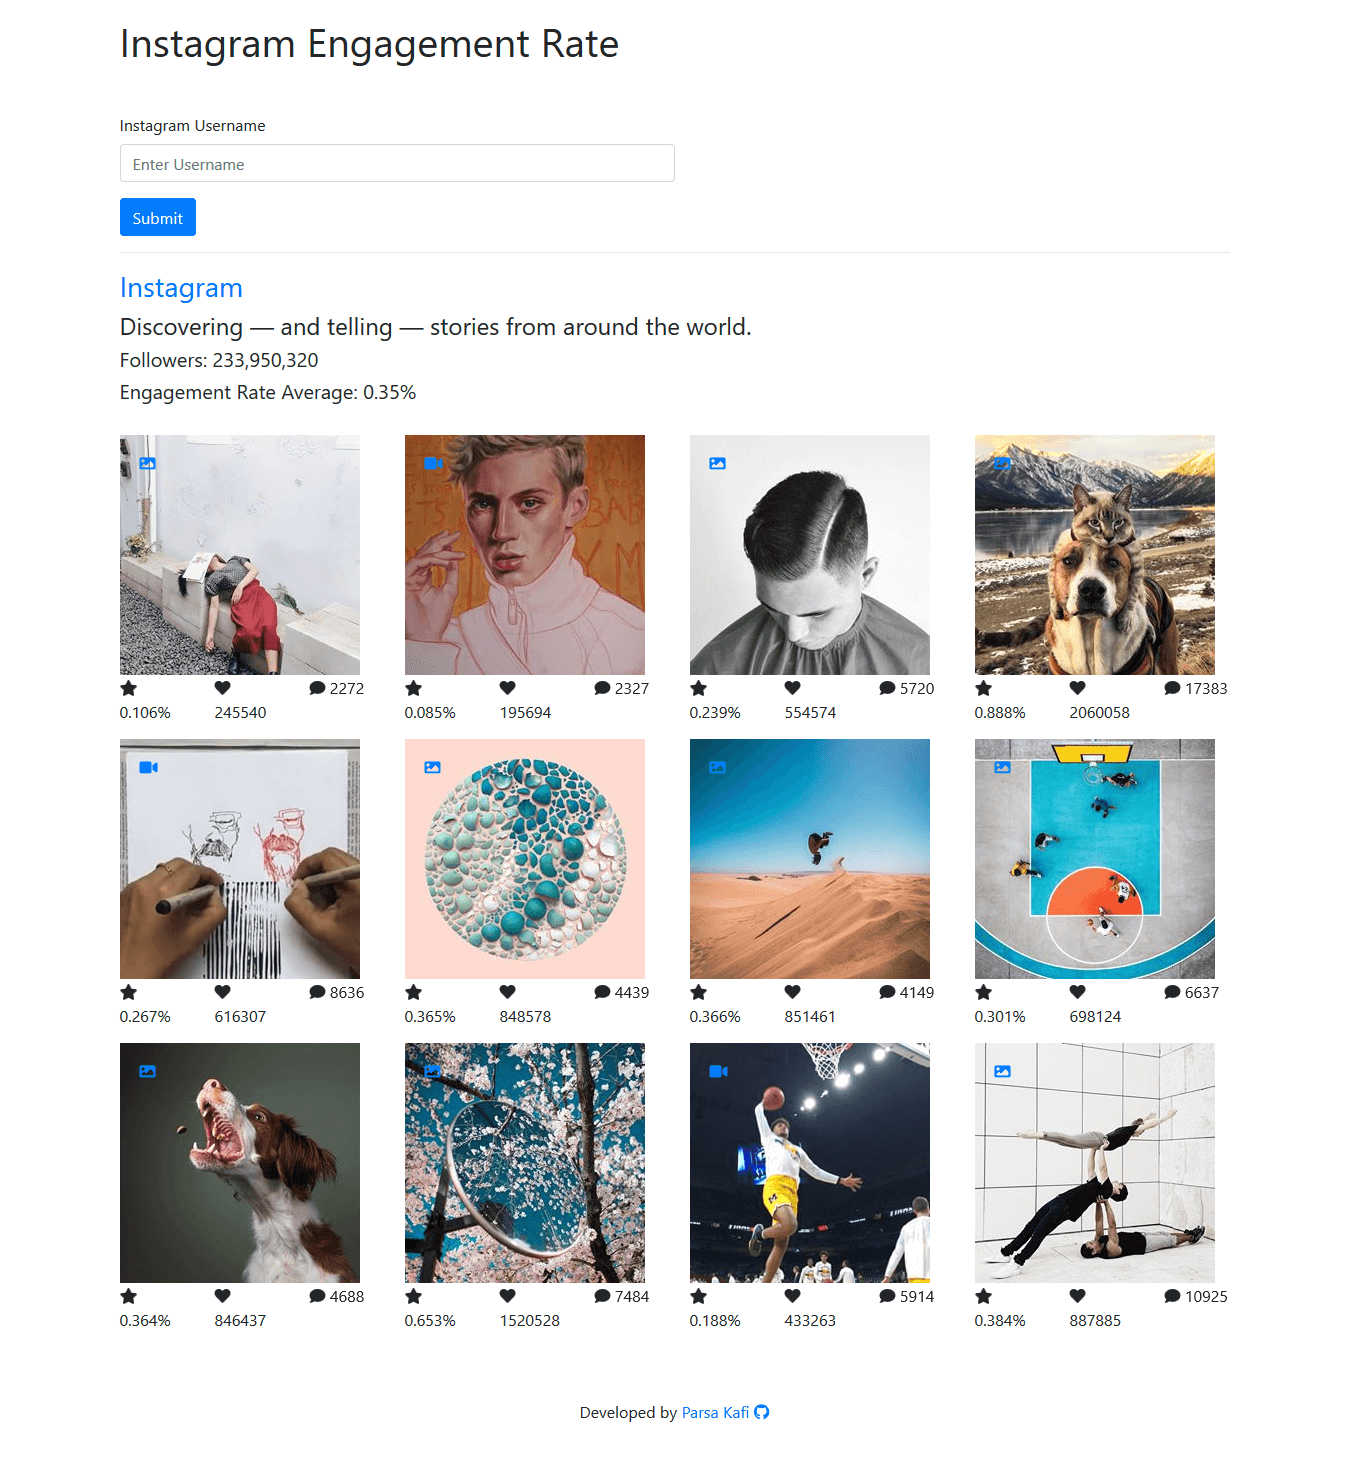
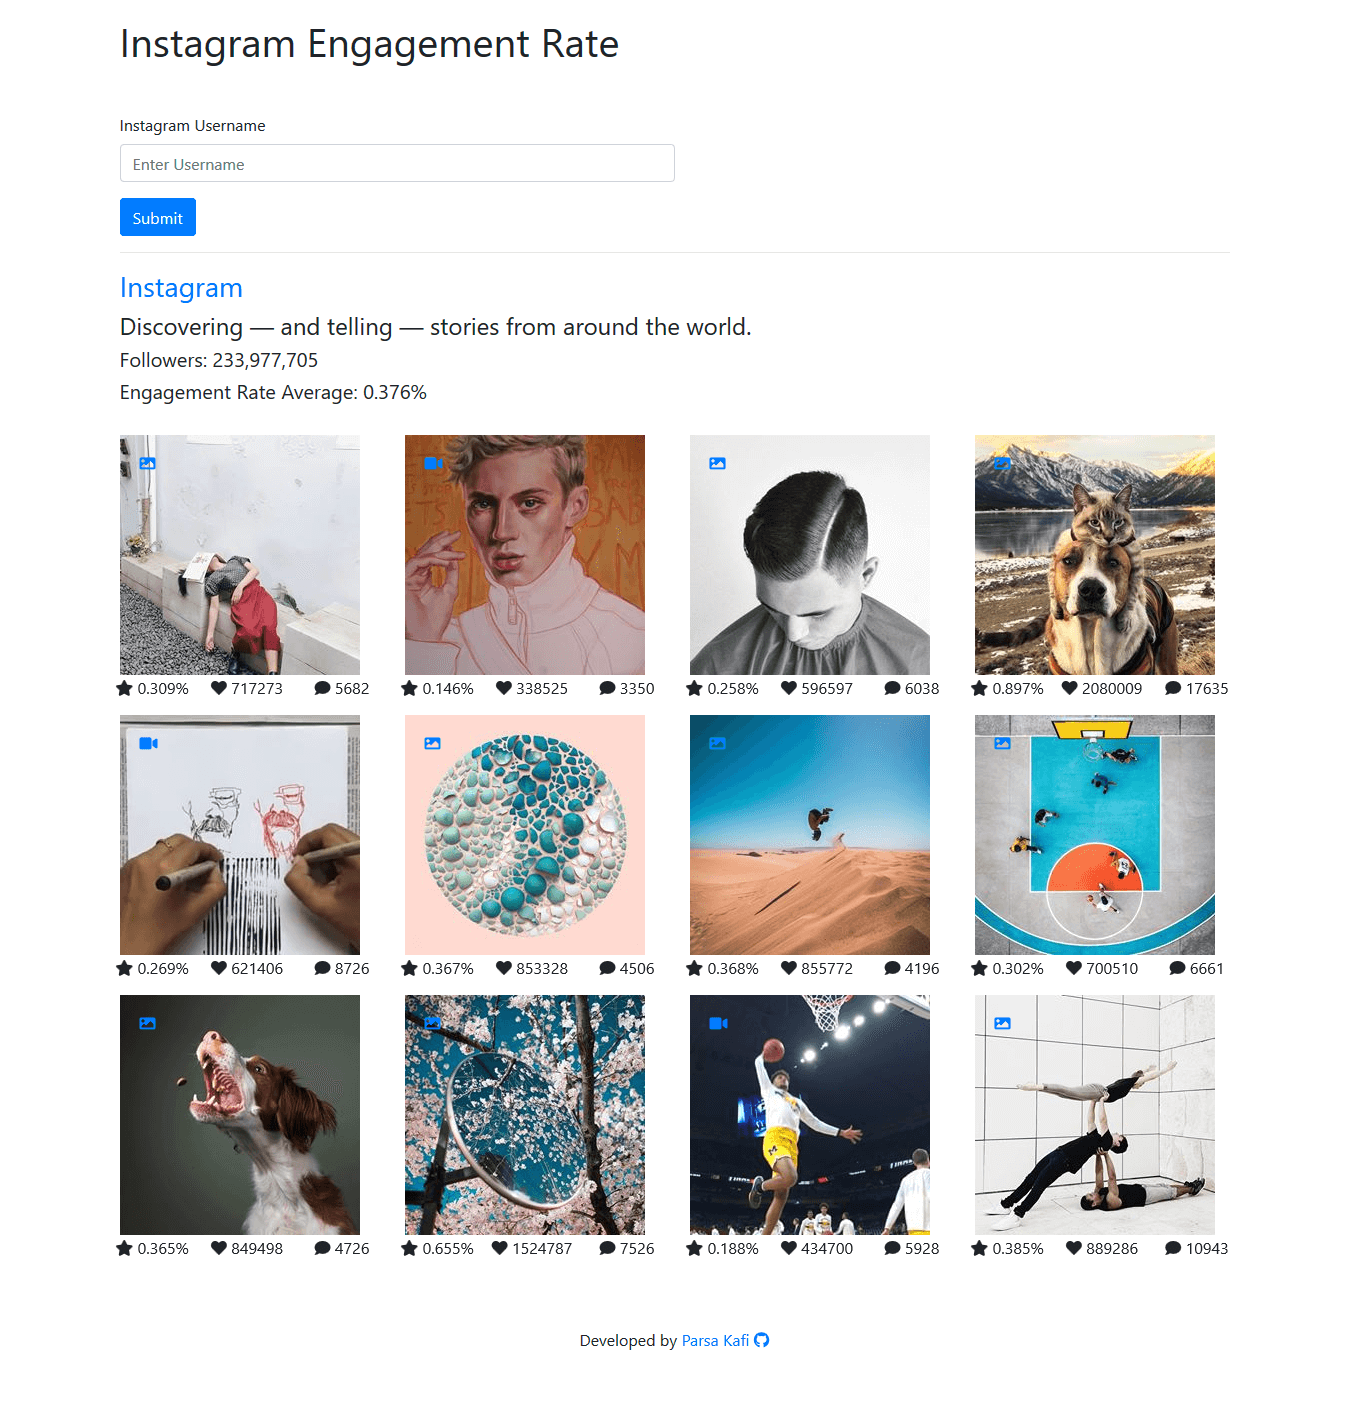
Remove padding around meta

diff --git a/public/style.css b/public/style.css
@@ -8,3 +8,9 @@
     left: 20px;
     top: 20px;
 }
+
+.meta > div {
+    padding: 0;
+    text-align: center;
+    white-space: nowrap;
+}
